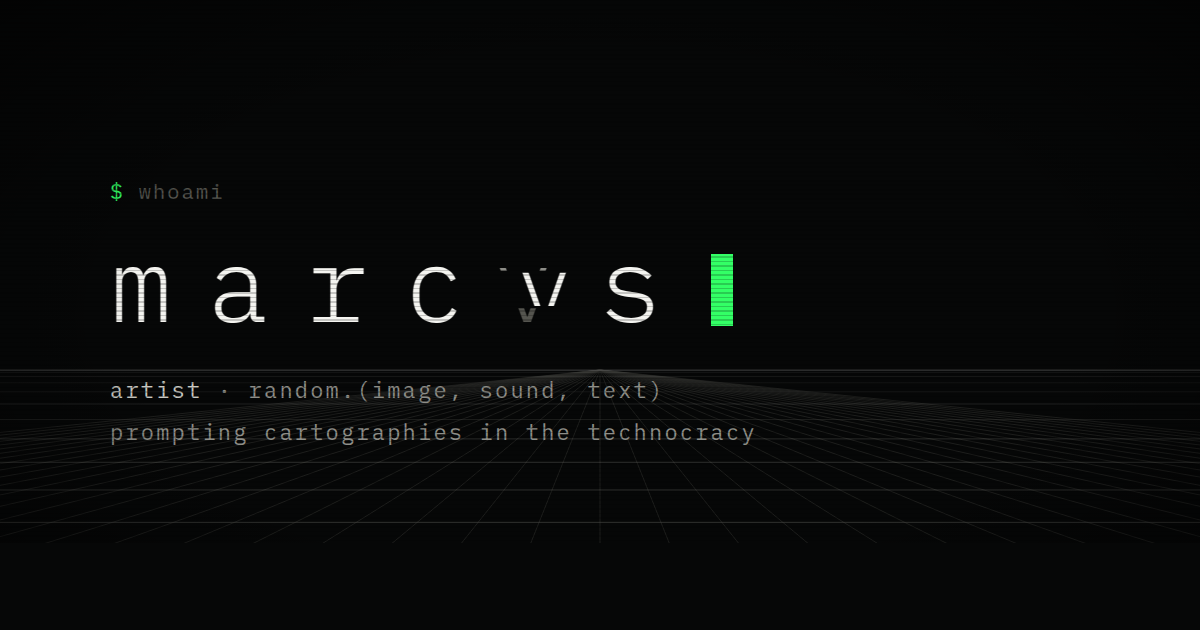
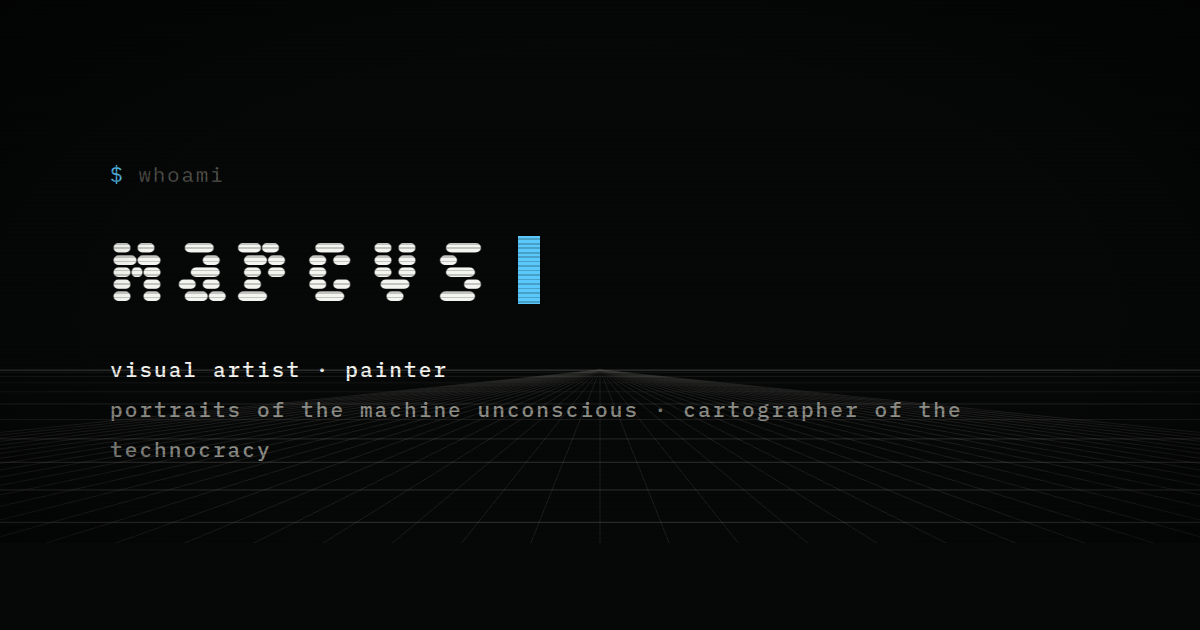
Add files via upload

diff --git a/index.html b/index.html
@@ -15,7 +15,7 @@
 
 <link rel="preconnect" href="https://fonts.googleapis.com">
 <link rel="preconnect" href="https://fonts.gstatic.com" crossorigin>
-<link href="https://fonts.googleapis.com/css2?family=VT323&family=IBM+Plex+Mono:wght@300;400;500&family=JetBrains+Mono:wght@300;400;500&display=swap" rel="stylesheet">
+<link href="https://fonts.googleapis.com/css2?family=VT323&family=Workbench:BLED,SCAN@0..100,-53..100&family=IBM+Plex+Mono:wght@300;400;500&family=JetBrains+Mono:wght@300;400;500&display=swap" rel="stylesheet">
 
 <style>
   /* ============================================================
@@ -135,10 +135,10 @@
   .mark .cmdline .prompt { color: var(--green); }
   .mark h1 {
     margin: 0;
-    font-family: var(--plex);
-    font-weight: 300;
-    font-size: clamp(30px, 4.2vw, 46px);
-    letter-spacing: 0.34em;
+    font-family: "Workbench", var(--pixel);
+    font-weight: 400;
+    font-size: clamp(38px, 5vw, 60px);
+    letter-spacing: 0.18em;
     text-transform: lowercase;
     color: var(--white);
     line-height: 1;
@@ -155,13 +155,14 @@
   .mark .tag {
     margin-top: 18px;
     font-family: var(--plex);
-    font-size: 12.5px;
+    font-weight: 500;
+    font-size: 13px;
     letter-spacing: 0.1em;
     color: var(--g2);
     line-height: 2;
     text-transform: lowercase;
   }
-  .mark .tag em { font-style: normal; color: var(--g1); }
+  .mark .tag em { font-style: normal; color: var(--white); }
   .mark .tag .cursor {
     display: inline-block; width: 9px; height: 15px;
     background: var(--green);
@@ -283,7 +284,7 @@
   }
   .node .label {
     display: inline-block;
-    font-family: var(--pixel);
+    font-family: "Workbench", var(--pixel);
     line-height: 0.82;
     letter-spacing: 0.005em;
     text-transform: lowercase;
@@ -314,6 +315,10 @@
 
   /* hierarquia em cinzas — luminância é profundidade */
   .node.prime { color: var(--white); }
+  .node.prime .label { font-variation-settings: 'BLED' 0, 'SCAN' 0; }
+  .node.l1 .label { font-variation-settings: 'BLED' 0, 'SCAN' 38; }
+  .node.l2 .label { font-variation-settings: 'BLED' 42, 'SCAN' 0; }
+  .node.l3 .label { font-variation-settings: 'BLED' 28, 'SCAN' -28; }
   .node.prime .label { font-size: clamp(34px, 4.6vw, 64px); }
   .node.prime .path { color: var(--g2); }
 
@@ -689,9 +694,10 @@
   // ---- boot: terminal digitando -------------------------------
   const BOOTLINES = [
     "marcvs.sys v3.0",
-    "mounting strata ............ ok",
-    "loading phantom videography . ok",
-    "calibrating crt ............. ok",
+    "loading reference list .............. ok",
+    "exorcising hauntings from the drive . ok",
+    "jailbreaking the machine ............ ok",
+    "making c: confess shapes and colors . ok",
     "",
     "$ run marcvs.art_"
   ];

diff --git a/cryptoart.html b/cryptoart.html
@@ -14,7 +14,7 @@
 
 <link rel="preconnect" href="https://fonts.googleapis.com">
 <link rel="preconnect" href="https://fonts.gstatic.com" crossorigin>
-<link href="https://fonts.googleapis.com/css2?family=VT323&family=IBM+Plex+Mono:wght@300;400;500&family=JetBrains+Mono:wght@300;400;500&display=swap" rel="stylesheet">
+<link href="https://fonts.googleapis.com/css2?family=VT323&family=Workbench:BLED,SCAN@0..100,-53..100&family=IBM+Plex+Mono:wght@300;400;500&family=JetBrains+Mono:wght@300;400;500&display=swap" rel="stylesheet">
 
 <style>
   /* marcvs.art v3 — MAINFRAME · /strata/02/cryptoart */
@@ -75,15 +75,15 @@
   }
   .mark .cmdline .prompt { color:var(--green); }
   .mark h1 {
-    margin:0; font-family:var(--plex); font-weight:300;
-    font-size:clamp(30px,4.2vw,46px); letter-spacing:0.34em;
+    margin:0; font-family:"Workbench",var(--pixel); font-weight:400;
+    font-size:clamp(38px,5vw,60px); letter-spacing:0.18em;
     text-transform:lowercase; color:var(--white); line-height:1;
   }
   .mark .tag {
-    margin-top:18px; font-family:var(--plex); font-size:12.5px;
+    margin-top:18px; font-family:var(--plex); font-weight:500; font-size:13px;
     letter-spacing:0.1em; color:var(--g2); line-height:2; text-transform:lowercase;
   }
-  .mark .tag em { font-style:normal; color:var(--g1); }
+  .mark .tag em { font-style:normal; color:var(--white); }
   .mark .tag .cursor {
     display:inline-block; width:9px; height:15px; background:var(--green);
     vertical-align:-2px; animation:blink 1s steps(1) infinite;
@@ -103,8 +103,8 @@
     margin-bottom:6px; text-transform:lowercase;
   }
   .node .label {
-    display:inline-block; font-family:var(--pixel);
-    line-height:0.82; letter-spacing:0.005em; text-transform:lowercase;
+    display:inline-block; font-family:"Workbench",var(--pixel);
+    line-height:0.92; letter-spacing:0.005em; text-transform:lowercase;
     position:relative; padding:2px 8px 4px 0;
   }
   .node .desc {
@@ -118,6 +118,9 @@
   .node:hover .label { background:var(--white); color:var(--black) !important; box-shadow:8px 8px 0 var(--g4); }
 
   .node.l0 { color:var(--white); }
+  .node.l0 .label { font-variation-settings:'BLED' 0,'SCAN' 0; }
+  .node.l1 .label { font-variation-settings:'BLED' 0,'SCAN' 38; }
+  .node.l2 .label { font-variation-settings:'BLED' 42,'SCAN' 0; }
   .node.l0 .label { font-size:clamp(44px,6.8vw,96px); }
   .node.l1 { color:var(--g1); }
   .node.l1 .label { font-size:clamp(38px,5.8vw,80px); }

diff --git a/som.html b/som.html
@@ -14,7 +14,7 @@
 
 <link rel="preconnect" href="https://fonts.googleapis.com">
 <link rel="preconnect" href="https://fonts.gstatic.com" crossorigin>
-<link href="https://fonts.googleapis.com/css2?family=VT323&family=IBM+Plex+Mono:wght@300;400;500&family=JetBrains+Mono:wght@300;400;500&display=swap" rel="stylesheet">
+<link href="https://fonts.googleapis.com/css2?family=VT323&family=Workbench:BLED,SCAN@0..100,-53..100&family=IBM+Plex+Mono:wght@300;400;500&family=JetBrains+Mono:wght@300;400;500&display=swap" rel="stylesheet">
 
 <style>
   /* ============================================================
@@ -115,10 +115,10 @@
   .mark .cmdline .prompt { color: var(--green); }
   .mark h1 {
     margin: 0;
-    font-family: var(--plex);
-    font-weight: 300;
-    font-size: clamp(30px, 4.2vw, 46px);
-    letter-spacing: 0.34em;
+    font-family: "Workbench", var(--pixel);
+    font-weight: 400;
+    font-size: clamp(38px, 5vw, 60px);
+    letter-spacing: 0.18em;
     text-transform: lowercase;
     color: var(--white);
     line-height: 1;
@@ -126,13 +126,14 @@
   .mark .tag {
     margin-top: 18px;
     font-family: var(--plex);
-    font-size: 12.5px;
+    font-weight: 500;
+    font-size: 13px;
     letter-spacing: 0.1em;
     color: var(--g2);
     line-height: 2;
     text-transform: lowercase;
   }
-  .mark .tag em { font-style: normal; color: var(--g1); }
+  .mark .tag em { font-style: normal; color: var(--white); }
   .mark .tag .cursor {
     display: inline-block; width: 9px; height: 15px;
     background: var(--green);
@@ -153,9 +154,10 @@
   }
   .group-head h2 {
     margin: 0;
-    font-family: var(--pixel);
+    font-family: "Workbench", var(--pixel);
     font-weight: 400;
-    font-size: clamp(30px, 3.8vw, 44px);
+    font-variation-settings: 'BLED' 0, 'SCAN' 32;
+    font-size: clamp(24px, 3vw, 36px);
     letter-spacing: 0.02em;
     text-transform: lowercase;
     color: var(--white);

diff --git a/bio.html b/bio.html
@@ -14,7 +14,7 @@
 
 <link rel="preconnect" href="https://fonts.googleapis.com">
 <link rel="preconnect" href="https://fonts.gstatic.com" crossorigin>
-<link href="https://fonts.googleapis.com/css2?family=VT323&family=IBM+Plex+Mono:wght@300;400;500&family=JetBrains+Mono:wght@300;400;500&display=swap" rel="stylesheet">
+<link href="https://fonts.googleapis.com/css2?family=VT323&family=Workbench:BLED,SCAN@0..100,-53..100&family=IBM+Plex+Mono:wght@300;400;500&family=JetBrains+Mono:wght@300;400;500&display=swap" rel="stylesheet">
 
 <style>
   /* marcvs.art v3 — MAINFRAME · /strata/08/bio */
@@ -75,15 +75,15 @@
   }
   .mark .cmdline .prompt { color:var(--green); }
   .mark h1 {
-    margin:0; font-family:var(--plex); font-weight:300;
-    font-size:clamp(30px,4.2vw,46px); letter-spacing:0.34em;
+    margin:0; font-family:"Workbench",var(--pixel); font-weight:400;
+    font-size:clamp(38px,5vw,60px); letter-spacing:0.18em;
     text-transform:lowercase; color:var(--white); line-height:1;
   }
   .mark .tag {
-    margin-top:18px; font-family:var(--plex); font-size:12.5px;
+    margin-top:18px; font-family:var(--plex); font-weight:500; font-size:13px;
     letter-spacing:0.1em; color:var(--g2); line-height:2; text-transform:lowercase;
   }
-  .mark .tag em { font-style:normal; color:var(--g1); }
+  .mark .tag em { font-style:normal; color:var(--white); }
   .mark .tag .cursor {
     display:inline-block; width:9px; height:15px; background:var(--green);
     vertical-align:-2px; animation:blink 1s steps(1) infinite;
@@ -92,8 +92,8 @@
   .bio { margin-top:64px; }
   .bio p {
     margin:0; max-width:66ch;
-    font-family:var(--plex); font-weight:300;
-    font-size:15px; letter-spacing:0.03em; line-height:2.1;
+    font-family:var(--plex); font-weight:400;
+    font-size:17px; letter-spacing:0.03em; line-height:2;
     color:var(--g1);
   }
   .bio p .bw { display:inline-block; white-space:nowrap; }
